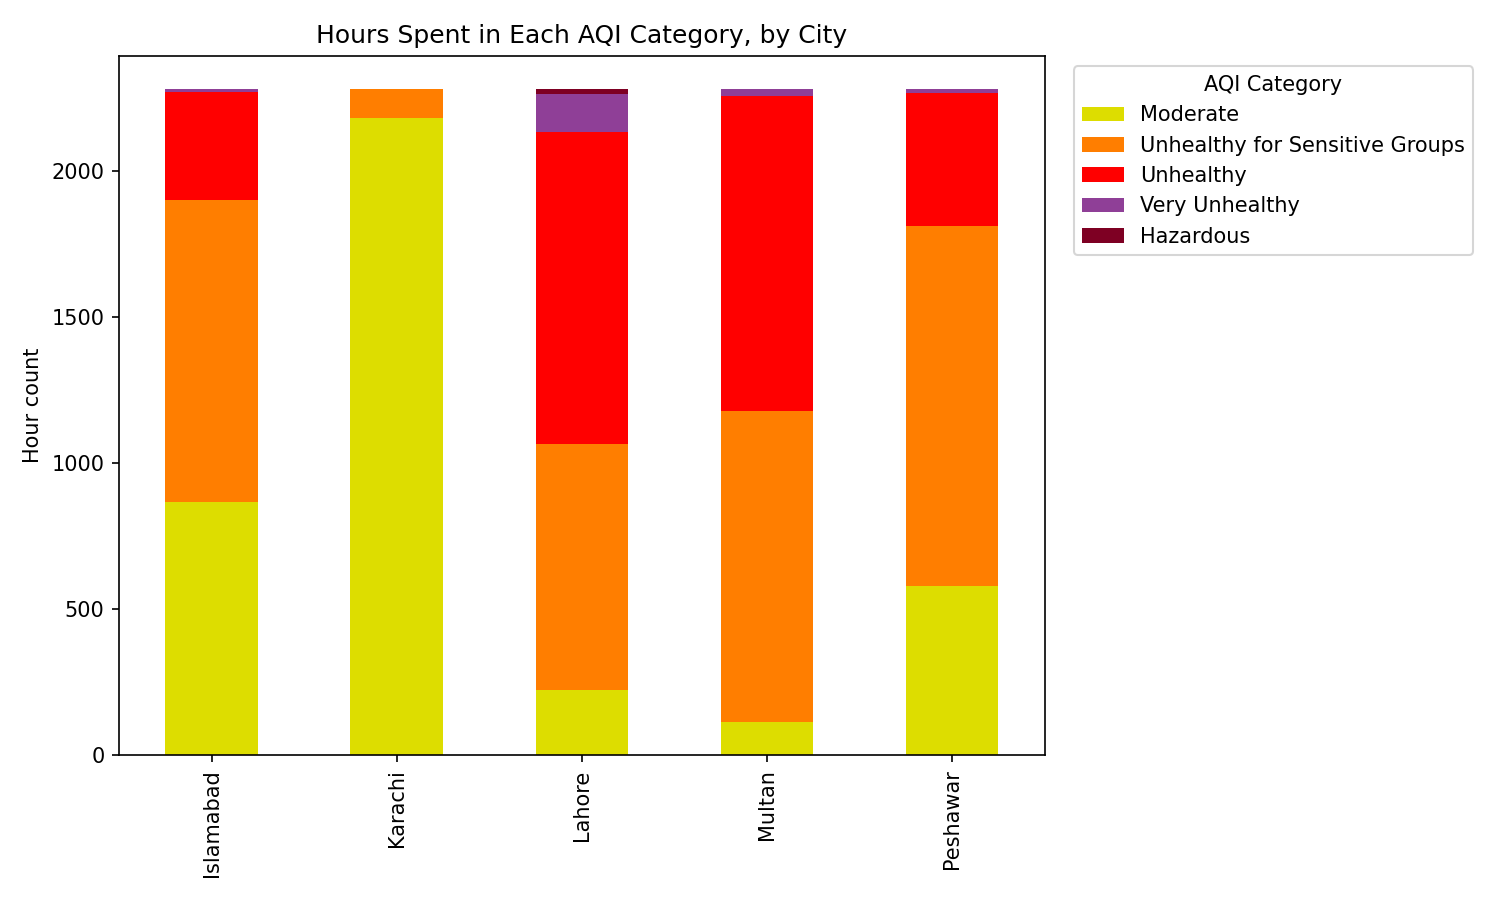
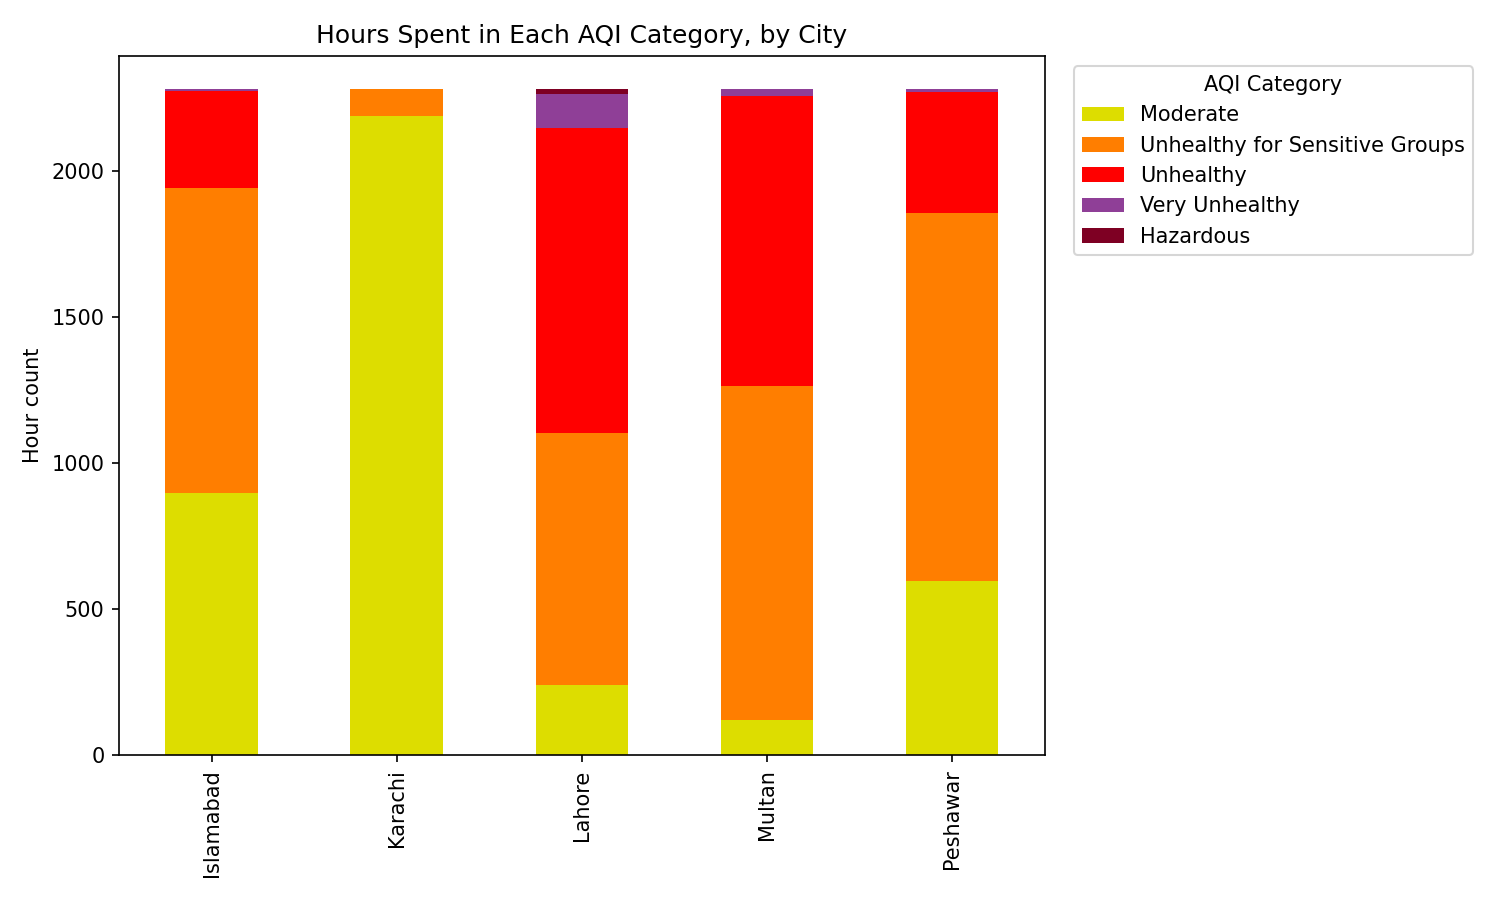
eda.py updated

diff --git a/pipelines/EDA/eda.py b/pipelines/EDA/eda.py
@@ -32,12 +32,12 @@ OUTPUT_DIR = Path("eda_plots")
 WEEKDAY_NAMES = ["Mon", "Tue", "Wed", "Thu", "Fri", "Sat", "Sun"]
 
 AQI_CATEGORIES = [
-    (0, 50, "Good", "#00e400"),
-    (51, 100, "Moderate", "#dddd00"),
-    (101, 150, "Unhealthy for Sensitive Groups", "#ff7e00"),
-    (151, 200, "Unhealthy", "#ff0000"),
-    (201, 300, "Very Unhealthy", "#8f3f97"),
-    (301, 500, "Hazardous", "#7e0023"),
+    (0.0, 51.0, "Good", "#00e400"),
+    (51, 101.0, "Moderate", "#dddd00"),
+    (101, 151.0, "Unhealthy for Sensitive Groups", "#ff7e00"),
+    (151, 201.0, "Unhealthy", "#ff0000"),
+    (201, 301.0, "Very Unhealthy", "#8f3f97"),
+    (301, 501.0, "Hazardous", "#7e0023"),
 ]
 CORRELATION_COLUMNS = [
     "temp", "humidity", "pressure", "wind_speed",
